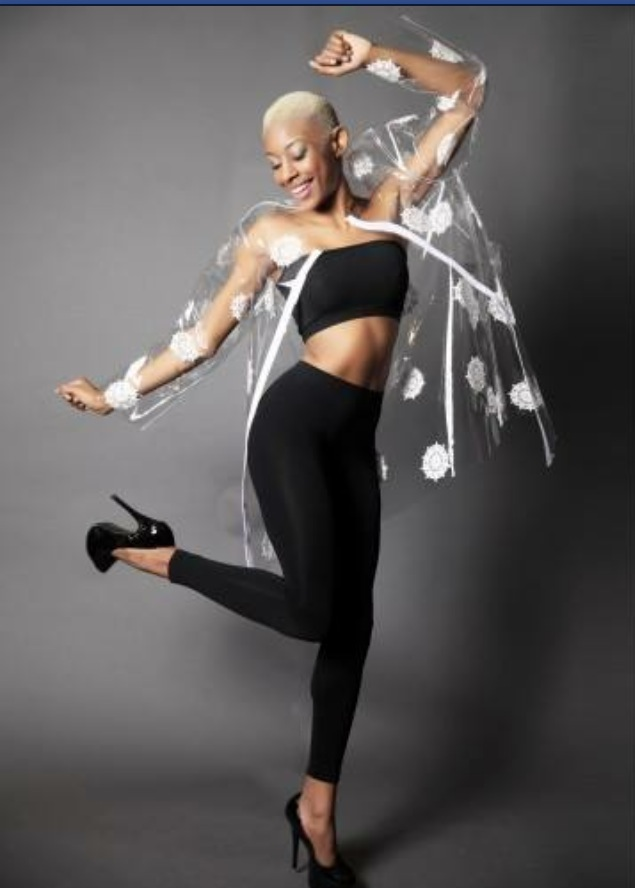
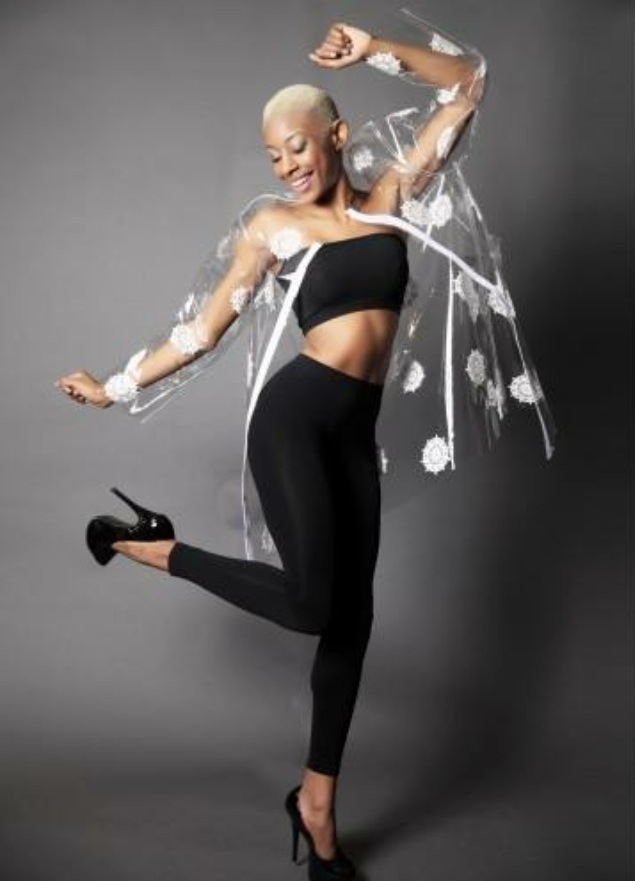
Add new background and change the column structure of the home page

diff --git a/app/assets/stylesheets/custom.css.scss b/app/assets/stylesheets/custom.css.scss
@@ -1,6 +1,6 @@
 body {
 	color: #FFF; /* Panel text is still partially controlled by the foundation variables*/
-	background-image: image-url('splatter.jpg');
+	background-image: image-url('wave7.png');
 }
 
 h1, h2, h3, h4, h5, h6 {
@@ -45,7 +45,6 @@ hr {
 #about {
 	line-height: 30px;
 	padding: 50px 20px 20px 20px;
-	height: 770px;
 }
 
 // contact 
